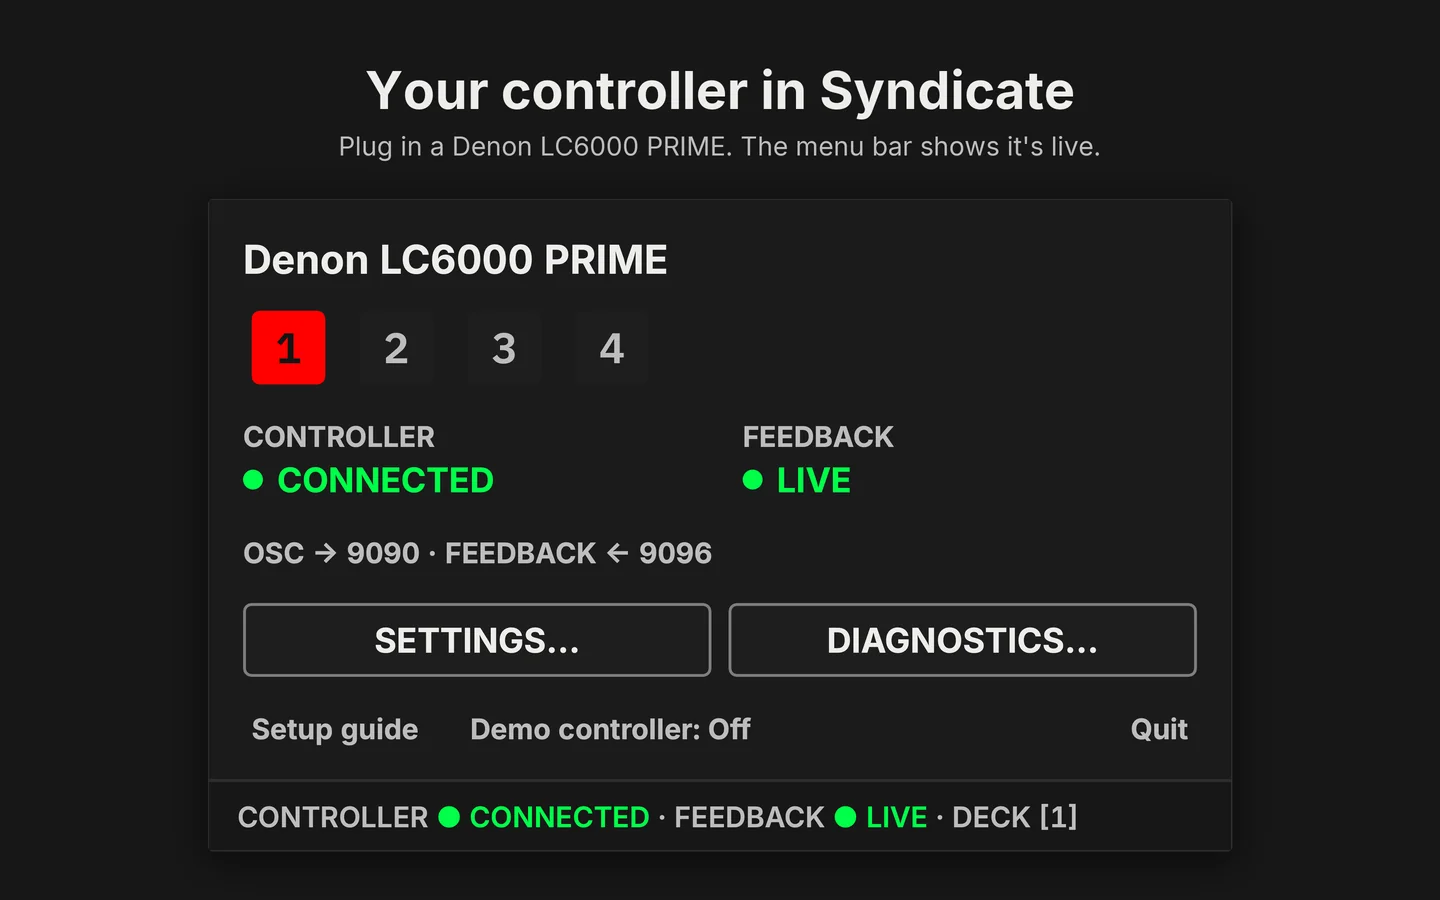
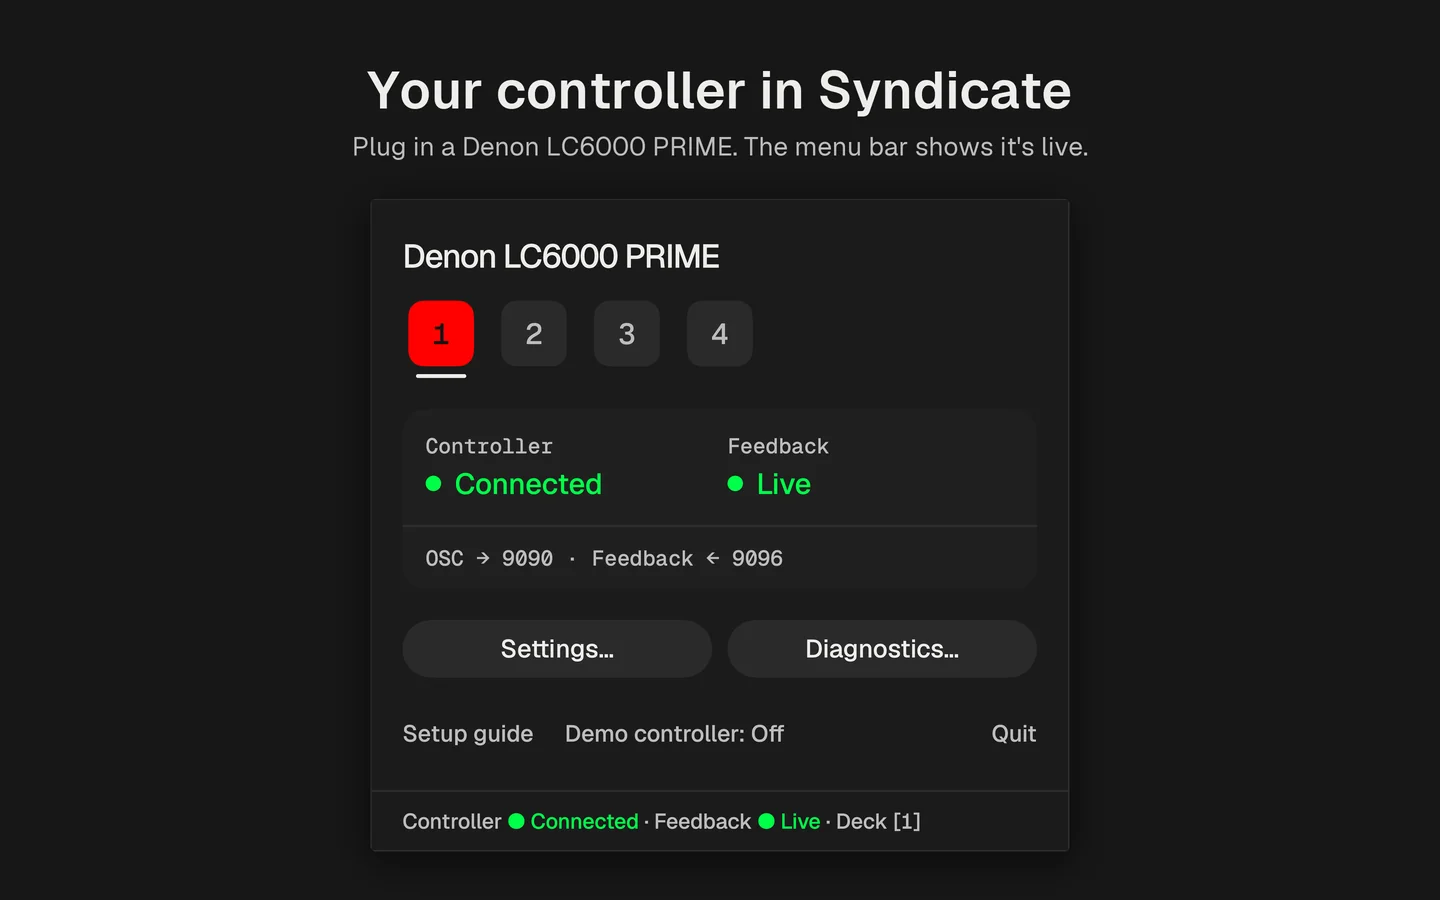
Website: the app screenshots re-rendered from the redesigned app (pr-assets 6d5a5bb), crops re-measured (#171)
- 1-panel, 2-diagnostics, 3-setup, 4-demo from pr-assets 6d5a5bb (main 153a781), WebP q85.
  5-settings stays on ff60571 until the Settings tabs land.
- .db-crop values re-measured to the new window frames. The panel is taller, so the
  hero crop is capped at 520px and the Connected/Live rows clear the fade.
- American spelling in the feature facts (color, colors).
- check_site passes; taste-skill gate PASS.

Claude-Session: https://claude.ai/code/session_01VCgWWsrZ4EvHNNNTAe7RC1

diff --git a/website/index.html b/website/index.html
@@ -316,8 +316,8 @@
         </div>
       </div>
       <div class="hero__window" data-fx="grain-gradient" data-fx-seed="7">
-        <!-- the real menu-bar panel (img/1-panel.webp, pr-assets ff60571), cropped to its window by CSS -->
-        <div class="ly-piece db-heroshot"><span class="db-crop" style="--sw: 1028; --sh: 658; --sx: 206; --sy: 196"><img src="img/1-panel.webp" alt="The DeckBridge menu-bar panel with a Denon LC6000 PRIME connected, feedback from Syndicate live, deck 1 of 4 selected, and OSC on ports 9090 and 9096" width="1440" height="900" fetchpriority="high" data-source="client" data-subject="the menu-bar panel"></span></div>
+        <!-- the real menu-bar panel (img/1-panel.webp, pr-assets 6d5a5bb), cropped to its window by CSS -->
+        <div class="ly-piece db-heroshot"><span class="db-crop" style="--sw: 702; --sh: 656; --sx: 369; --sy: 197"><img src="img/1-panel.webp" alt="The DeckBridge menu-bar panel with a Denon LC6000 PRIME connected, feedback from Syndicate live, deck 1 of 4 selected, and OSC on ports 9090 and 9096" width="1440" height="900" fetchpriority="high" data-source="client" data-subject="the menu-bar panel"></span></div>
       </div>
     </div></div>
   </section>
@@ -331,7 +331,7 @@
           <p class="muted">Turn OSC input on, point feedback at port 9096, tick the subscriptions and switch the LC6000’s MIDI input off. DeckBridge opens this guide on first launch and says when Syndicate answers.</p>
           <a class="link" href="support/#setup">Read the setup steps</a>
         </div>
-        <div class="panel span-6 start-7 db-shotframe"><div class="db-shot"><span class="db-crop" style="--sw: 524; --sh: 658; --sx: 458; --sy: 196"><img src="img/3-setup.webp" alt="The DeckBridge setup guide listing four Syndicate settings: OSC input on port 9090, OSC feedback to 127.0.0.1 port 9096, the feedback subscriptions, and the LC6000 PRIME's MIDI input off" width="1440" height="900" loading="lazy" decoding="async" data-source="client" data-subject="the setup guide"></span></div></div>
+        <div class="panel span-6 start-7 db-shotframe"><div class="db-shot"><span class="db-crop" style="--sw: 420; --sh: 656; --sx: 510; --sy: 197"><img src="img/3-setup.webp" alt="The DeckBridge setup guide listing four Syndicate settings: OSC input on port 9090, OSC feedback to 127.0.0.1 port 9096, the feedback subscriptions, and the LC6000 PRIME's MIDI input off" width="1440" height="900" loading="lazy" decoding="async" data-source="client" data-subject="the setup guide"></span></div></div>
       </div>
     </div>
   </section>
@@ -371,18 +371,18 @@
         <article class="card card--row card--open span-6">
           <h3>Diagnostics checks every LC6000 control</h3>
           <p>A MIDI monitor, an LED sweep and an OSC log show what goes in and comes out, with unmapped messages marked.</p>
-          <div class="panel db-shotpanel"><div class="db-shot"><span class="db-crop" style="--sw: 1020; --sh: 402; --sx: 210; --sy: 198"><img src="img/2-diagnostics.webp" alt="The DeckBridge Diagnostics window: the MIDI monitor lists each LC6000 PRIME message with its mapping, such as play, pad1 and jog, and marks unmapped ones" width="1440" height="900" loading="lazy" decoding="async" data-source="client" data-subject="the diagnostics window"></span></div></div>
+          <div class="panel db-shotpanel"><div class="db-shot"><span class="db-crop" style="--sw: 1016; --sh: 440; --sx: 212; --sy: 198"><img src="img/2-diagnostics.webp" alt="The DeckBridge Diagnostics window: the MIDI monitor lists each LC6000 PRIME message with its mapping, such as play, pad1 and jog, and marks unmapped ones" width="1440" height="900" loading="lazy" decoding="async" data-source="client" data-subject="the diagnostics window"></span></div></div>
         </article>
         <article class="card card--row card--open span-6">
           <h3>Demo mode runs DeckBridge with no hardware</h3>
           <p>The demo controller plays a script against a simulated Syndicate, so you can watch DeckBridge work before you plug in.</p>
-          <div class="panel db-shotpanel"><div class="db-shot"><span class="db-crop" style="--sw: 824; --sh: 402; --sx: 308; --sy: 198"><img src="img/4-demo.webp" alt="The DeckBridge panel in demo mode: a built-in demo controller drives the bridge so you can see it work with no hardware" width="1440" height="900" loading="lazy" decoding="async" data-source="client" data-subject="the panel in demo mode"></span></div></div>
+          <div class="panel db-shotpanel"><div class="db-shot"><span class="db-crop" style="--sw: 568; --sh: 440; --sx: 436; --sy: 198"><img src="img/4-demo.webp" alt="The DeckBridge panel in demo mode: a built-in demo controller drives the bridge so you can see it work with no hardware" width="1440" height="900" loading="lazy" decoding="async" data-source="client" data-subject="the panel in demo mode"></span></div></div>
         </article>
       </div>
       <ul class="grid db-facts">
         <li class="span-3"><b>Deck layers.</b> Shift + deck select drives Syndicate decks 1 to 4.</li>
-        <li class="span-3"><b>LEDs.</b> Play, Cue, Sync and the pads follow Syndicate, hot cues in its cue colours.</li>
-        <li class="span-3"><b>Jog ring.</b> Lit in the loaded deck’s colour.</li>
+        <li class="span-3"><b>LEDs.</b> Play, Cue, Sync and the pads follow Syndicate, hot cues in its cue colors.</li>
+        <li class="span-3"><b>Jog ring.</b> Lit in the loaded deck’s color.</li>
         <li class="span-3"><b>Recovery.</b> Unplug or quit and held controls let go; plug back in and the LEDs repaint.</li>
       </ul>
     </div>

diff --git a/website/site.css b/website/site.css
@@ -8,13 +8,13 @@
 .nav__logo img, .footer__mark img { width: 28px; height: 28px; margin-right: var(--s-2); border-radius: 7px; }
 
 /* ---------------------------------------------------------------- the app, as the real screenshots show it
-   Each picture is one of img/*.webp (pr-assets ff60571), cropped to its window by CSS; the files stay whole.
+   Each picture is one of img/*.webp (pr-assets 6d5a5bb; 5-settings still ff60571), cropped to its window by CSS; the files stay whole.
    --sw/--sh the window's size and --sx/--sy its corner, in the 1440x900 screenshot's pixels. */
 .db-crop { position: relative; display: block; overflow: hidden; aspect-ratio: var(--sw) / var(--sh); border-radius: 10px;
   box-shadow: 0 0 0 1px rgb(255 255 255 / .1), 0 30px 70px -30px rgb(0 0 0 / .8); background: #171717; }
 .db-crop > img { position: absolute; max-width: none; height: auto; width: calc(1440 / var(--sw) * 100%); left: calc(-100% * var(--sx) / var(--sw)); top: calc(-100% * var(--sy) / var(--sh)); }
 /* the hero: the panel rises out of the frame, its top rows above the fade */
-.db-heroshot .db-crop { width: 100%; }
+.db-heroshot .db-crop { width: min(100%, 520px); margin-inline: auto; }  /* the 6d5a5bb panel is tall: narrower, so its status rows clear the fade */
 /* a framed screenshot that fits its box whole (the setup guide, the feature panels) */
 .db-shot { position: absolute; inset: 0; display: flex; align-items: center; justify-content: center; padding: var(--s-6); container-type: size; }
 .db-shot .db-crop { width: min(100cqw, 100cqh * var(--sw) / var(--sh)); }
